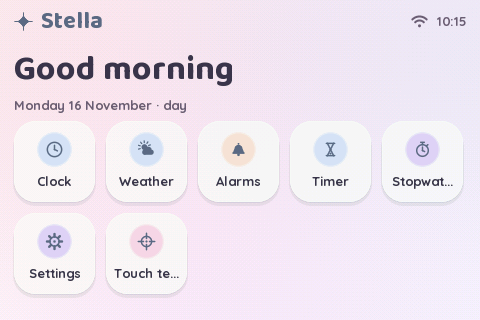
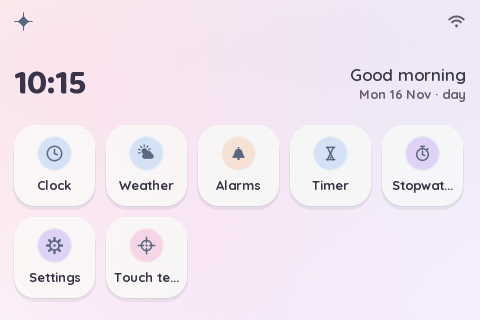
Home header with the time; StellaOS (0.8.2)
Owner requests:
- The "Stella" text is gone from the top of Home (its sparkle stays), and the
  small clock moves out of Home's status bar: the time is now large (the
  headline size) in Home's own header, with the greeting and a short date
  beside it ("Good night" / "Mon 16 Nov · night"). Other screens keep their
  title and small clock.
- The OS is called StellaOS in About, the update screen and the Home note.
- Even spacing: the same gap above the header, between the header and the
  apps, before the note and below, taken from the space that is left
  (at least gapS, at most 16 dp), instead of a fixed 4 dp under the header and
  whatever remained at the bottom.

LauncherApp exposes tileBounds() / pagerPrev() / pagerNext() so tests ask the
Home screen where things are instead of repeating its layout arithmetic.

179 tests. Firmware 1,481,291 B (75 %), 84,212 B RAM. Not run on the device.

Claude-Session: https://claude.ai/code/session_01WrCzyR31TQn5da2N4PH2yW

diff --git a/src/stella/apps/launcher.cpp b/src/stella/apps/launcher.cpp
@@ -28,10 +28,14 @@ int LauncherApp::HomeScreen::pageCount() const {
 
 void LauncherApp::HomeScreen::layout(const Rect &content, const Theme &t) {
   theme_ = t;
-  area_ = content.inset(t.m.margin, t.m.gapS);
+  area_ = content.inset(t.m.margin, 0);
   arrange();
 }
 
+// The header (the time, large, with the greeting and the date beside it), the
+// grid of apps, the page dots and, when Wi-Fi is not set up, a note: laid out
+// with the *same* space above, between and below, so nothing looks squeezed
+// against one edge.
 void LauncherApp::HomeScreen::arrange() {
   const Theme &t = theme_;
   columns_ = t.density == Density::Regular ? 5 : 4;
@@ -43,32 +47,54 @@ void LauncherApp::HomeScreen::arrange() {
   const int tileW = (area_.w - gap_ * (columns_ - 1)) / columns_;
   const int tileH = tileW;
   const bool paged = count > columns_ * rows_;
-  Rect parts[6];
-  column(area_,
-         {px(t.font.headline->lineHeight), px(t.font.caption->lineHeight), px(rows_ * tileH + (rows_ - 1) * gap_),
-          px(paged ? t.dp(10) : 0), flex(), px(rows_ == 1 ? t.m.row + t.dp(8) : 0)},
-         t.m.gapS, parts);
-  greeting_ = parts[0];
-  date_ = parts[1];
-  grid_ = parts[2];
-  dots_ = parts[3];
-  note_ = parts[5];
-  // With several pages, a pill of previous/next buttons sits beside the
-  // greeting; swiping still works too.
+  const int headerH = t.font.headline->lineHeight > t.font.body->lineHeight + t.font.caption->lineHeight
+                          ? t.font.headline->lineHeight
+                          : t.font.body->lineHeight + t.font.caption->lineHeight;
+  const int gridH = rows_ * tileH + (rows_ - 1) * gap_;
+  const int dotsH = paged ? t.dp(10) : 0;
+  const int noteH = rows_ == 1 ? t.m.row + t.dp(8) : 0;
+  const int used = headerH + gridH + (paged ? t.dp(4) + dotsH : 0) + noteH;
+  const int slots = noteH ? 4 : 3;  // gaps: above, between, [before the note], below
+  int space = (area_.h - used) / slots;
+  space = space < t.m.gapS ? t.m.gapS : space > t.dp(16) ? t.dp(16) : space;
+  int y = area_.y + space;
+  header_ = Rect(area_.x, y, area_.w, headerH);
+  y += headerH + space;
+  grid_ = Rect(area_.x, y, area_.w, gridH);
+  y += gridH;
   if (paged) {
-    const Rect header(area_.x, greeting_.y, area_.w, date_.bottom() - greeting_.y);
-    pager_ = trailing(header, t.dp(88));
+    dots_ = Rect(area_.x, y + t.dp(4), area_.w, dotsH);
+    y += t.dp(4) + dotsH;
+  } else {
+    dots_ = Rect();
+  }
+  note_ = noteH ? Rect(area_.x, y + space, area_.w, noteH) : Rect();
+  // With several pages, a pill of previous/next buttons sits at the right end
+  // of the header; swiping still works too.
+  Rect textArea = header_;
+  if (paged) {
+    pager_ = trailing(header_, t.dp(88));
     pager_ = center(pager_, pager_.w, t.m.control);
     Rect halves[2];
     row(pager_, {flex(), flex()}, 0, halves);
     prev_ = halves[0];
     next_ = halves[1];
-    const int textW = area_.w - pager_.w - t.m.gapM;
-    greeting_.w = textW;
-    date_.w = textW;
+    textArea.w = area_.w - pager_.w - t.m.gapM;
   } else {
     pager_ = prev_ = next_ = Rect();
   }
+  // The time (the widest it can be) on the left, the words right-aligned beside it.
+  const int timeW = Canvas::textWidth(*t.font.headline, "88:88 AM") < textArea.w / 2
+                        ? Canvas::textWidth(*t.font.headline, "88:88 AM")
+                        : textArea.w / 2;
+  Rect parts[2];
+  row(textArea, {px(timeW), flex()}, t.m.gapM, parts);
+  time_ = Rect(parts[0].x, header_.y, parts[0].w, headerH);
+  Rect lines[2];
+  column(center(parts[1], parts[1].w, t.font.body->lineHeight + t.font.caption->lineHeight),
+         {px(t.font.body->lineHeight), px(t.font.caption->lineHeight)}, 0, lines);
+  greeting_ = lines[0];
+  date_ = lines[1];
 }
 
 bool LauncherApp::HomeScreen::showPage(int page, AppContext &ctx) {
@@ -92,13 +118,19 @@ int LauncherApp::HomeScreen::tileAt(int x, int y) const {
 
 void LauncherApp::HomeScreen::refreshText(AppContext &ctx) {
   const LocalTime now = ctx.localTime();
-  char greeting[sizeof(greetingText_)], date[sizeof(dateText_)];
+  char clock[sizeof(timeText_)], greeting[sizeof(greetingText_)], date[sizeof(dateText_)];
+  if (now.valid) ctx.formatTime(now, clock, sizeof(clock));
+  else snprintf(clock, sizeof(clock), "--:--");
   snprintf(greeting, sizeof(greeting), "%s", greetingFor(now));
   if (now.valid) {
-    snprintf(date, sizeof(date), "%s %d %s \xc2\xb7 %s", weekdayName(now.weekday), now.day, monthName(now.month),
+    snprintf(date, sizeof(date), "%.3s %d %.3s \xc2\xb7 %s", weekdayName(now.weekday), now.day, monthName(now.month),
              phaseName(ctx.theme().phase));
   } else {
     snprintf(date, sizeof(date), "Set the time in Settings");
+  }
+  if (strcmp(clock, timeText_) != 0) {
+    memcpy(timeText_, clock, sizeof(clock));
+    ctx.invalidate(time_);
   }
   if (strcmp(greeting, greetingText_) != 0) {
     memcpy(greetingText_, greeting, sizeof(greeting));
@@ -126,7 +158,7 @@ void LauncherApp::HomeScreen::refreshText(AppContext &ctx) {
     snprintf(text, sizeof(text), "%d%% lit \xc2\xb7 %s sky", (int)(moon.illumination * 100 + 0.5f),
              phaseName(ctx.theme().phase));
   } else {
-    snprintf(title, sizeof(title), "Stella");
+    snprintf(title, sizeof(title), "StellaOS");
     snprintf(text, sizeof(text), "Waiting for the time");
   }
   if (strcmp(title, noteTitle_) || strcmp(text, noteText_)) {
@@ -155,8 +187,9 @@ uint32_t LauncherApp::HomeScreen::onTick(AppContext &ctx) {
 
 void LauncherApp::HomeScreen::draw(Canvas &c, const Theme &t) {
   const Palette &p = t.color;
-  c.drawTextIn(*t.font.headline, greetingText_, greeting_, p.text);
-  c.drawTextIn(*t.font.caption, dateText_, date_, p.textMuted);
+  c.drawTextIn(*t.font.headline, timeText_, time_, p.text);
+  c.drawTextIn(*t.font.body, greetingText_, greeting_, p.text, Align::Right);
+  c.drawTextIn(*t.font.caption, dateText_, date_, p.textMuted, Align::Right);
 
   for (int slot = 0; slot < perPage(); ++slot) {
     const int index = page_ * perPage() + slot;

diff --git a/src/stella/runtime/runtime.cpp b/src/stella/runtime/runtime.cpp
@@ -773,17 +773,18 @@ void Runtime::drawStatusBar(Canvas &c) {
   const Palette &p = t.color;
   const Rect bar = statusBarRect().inset(t.m.margin, 0);
 
-  char clock[12];
-  formatTime(localTime(), clock, sizeof(clock));
+  // Home shows the time large in its own header, so its status bar has none.
+  const bool back = canGoBack();
+  char clock[12] = "";
+  if (back) formatTime(localTime(), clock, sizeof(clock));
   const NetworkStatus net = network_.get();
   const int iconSize = t.dp(14);
-  const int rightW = Canvas::textWidth(*t.font.caption, clock) + (net.present ? iconSize + t.dp(6) : 0);
+  const int rightW = (clock[0] ? Canvas::textWidth(*t.font.caption, clock) + t.dp(6) : 0) + (net.present ? iconSize : 0);
   Rect parts[2];
   layout::row(bar, {layout::flex(), layout::px(rightW)}, t.m.gapM, parts);
 
   // Left: back affordance + title, or the Stella brand on the home screen.
   Rect left = parts[0];
-  const bool back = canGoBack();
   if (back) {
     const Rect box = layout::leading(left, iconSize);
     if (backPressed_) c.fillCircle(box.centerX(), box.centerY(), iconSize / 2 + t.dp(4), p.accent, 46);
@@ -794,8 +795,10 @@ void Runtime::drawStatusBar(Canvas &c) {
   left = Rect(left.x + iconSize + t.dp(6), left.y, left.w - iconSize - t.dp(6), left.h);
   const Screen *s = topScreen();
   const App *app = foreground();
-  const char *title = back ? (s && s->title() ? s->title() : app ? app->info().name : "") : "Stella";
-  c.drawTextIn(*t.font.title, title, left, back ? p.text : p.accent);
+  if (back) {
+    const char *title = s && s->title() ? s->title() : app ? app->info().name : "";
+    c.drawTextIn(*t.font.title, title, left, p.text);
+  }
 
   // Right: network indicator + clock.
   Rect right = parts[1];
@@ -805,10 +808,10 @@ void Runtime::drawStatusBar(Canvas &c) {
                             : net.state == WifiState::Connecting ? p.accent
                             : net.state == WifiState::Disconnected ? p.danger
                                                                    : blend(p.glass, p.textMuted, 120);
-    icons::wifi(c, layout::leading(right, iconSize), wifiColor);
-    right = Rect(right.x + iconSize + t.dp(6), right.y, right.w - iconSize - t.dp(6), right.h);
+    icons::wifi(c, layout::trailing(Rect(right.x, right.y, right.w - (clock[0] ? Canvas::textWidth(*t.font.caption, clock) + t.dp(6) : 0), right.h), iconSize), wifiColor);
+    right = Rect(right.right() - (clock[0] ? Canvas::textWidth(*t.font.caption, clock) : 0), right.y, clock[0] ? Canvas::textWidth(*t.font.caption, clock) : 0, right.h);
   }
-  c.drawTextIn(*t.font.caption, clock, right, p.textMuted, Align::Right);
+  if (clock[0]) c.drawTextIn(*t.font.caption, clock, right, p.textMuted, Align::Right);
 }
 
 void Runtime::drawToast(Canvas &c) {

diff --git a/tests/test_runtime.cpp b/tests/test_runtime.cpp
@@ -12,14 +12,10 @@ namespace {
 
 const char *topApp(SimSession &s) { return s.os.foreground() ? s.os.foreground()->info().id : ""; }
 
-// Centre of launcher tile `i` (first page), derived from the same theme tokens.
+// Centre of launcher tile `i` (first page), asked of the Home screen itself.
 Point launcherTile(SimSession &s, int index) {
-  const Theme &t = s.os.theme();
-  const Rect c = s.os.contentRect().inset(t.m.margin, t.m.gapS);
-  const int columns = t.density == Density::Regular ? 5 : 4;
-  const int tileW = (c.w - t.m.gapM * (columns - 1)) / columns;  // square tiles
-  const int top = c.y + t.font.headline->lineHeight + t.font.caption->lineHeight + 2 * t.m.gapS;
-  return Point{(int16_t)(c.x + index * (tileW + t.m.gapM) + tileW / 2), (int16_t)(top + tileW / 2)};
+  const Rect r = s.launcher.tileBounds(index);
+  return Point{(int16_t)r.centerX(), (int16_t)r.centerY()};
 }
 
 }  // namespace
@@ -146,22 +142,17 @@ TEST(tap_seen_once_across_a_slow_frame_still_launches) {
 // paging needed a swipe, which is hard on a resistive panel.
 TEST(home_pages_with_buttons) {
   SimSession s(320, 240, kEveningEpoch, Appearance::Auto, false, /*online=*/false);
-  const Theme &t = s.os.theme();
-  const Rect area = s.os.contentRect().inset(t.m.margin, t.m.gapS);
-  const int headerTop = area.y, headerBottom = area.y + t.font.headline->lineHeight + t.m.gapS + t.font.caption->lineHeight;
-  const int y = (headerTop + headerBottom) / 2;
-  const int nextX = area.right() - t.dp(88) / 4, prevX = area.right() - t.dp(88) * 3 / 4;
-  s.tap(nextX, y);
+  const Rect next = s.launcher.pagerNext(), prev = s.launcher.pagerPrev();
+  CHECK(!next.empty() && !prev.empty());
+  s.tap(next.centerX(), next.centerY());
   // Page 2 starts with the fifth app; its tile is now first.
-  const int columns = 4;
-  const int tileW = (area.w - t.m.gapM * (columns - 1)) / columns;
-  const int tileY = headerBottom + t.m.gapS + tileW / 2;
-  s.tap(area.x + tileW / 2, tileY);
+  const Rect first = s.launcher.tileBounds(0);
+  s.tap(first.centerX(), first.centerY());
   CHECK(strcmp(topApp(s), "stopwatch") == 0);  // the fifth listed app
   s.os.goHome();
   s.run(100);
-  s.tap(prevX, y);
-  s.tap(area.x + tileW / 2, tileY);
+  s.tap(prev.centerX(), prev.centerY());
+  s.tap(first.centerX(), first.centerY());
   CHECK(strcmp(topApp(s), "clock") == 0);
 }
 

diff --git a/src/stella/apps/launcher.h b/src/stella/apps/launcher.h
@@ -11,6 +11,10 @@ class LauncherApp : public App {
   const AppInfo &info() const override;
   Screen &root() override { return home_; }
   void onTopic(uint16_t topicId, AppContext &ctx) override;
+  // Where things are on the Home screen (for tests and screenshots).
+  Rect tileBounds(int slot) const { return home_.tileRect(slot); }
+  Rect pagerPrev() const { return home_.prevRect(); }
+  Rect pagerNext() const { return home_.nextRect(); }
 
  private:
   class HomeScreen : public Screen {
@@ -21,6 +25,9 @@ class LauncherApp : public App {
     void onShow(AppContext &ctx) override;
     uint32_t onTick(AppContext &ctx) override;
     void refreshText(AppContext &ctx);
+    Rect tileRect(int slot) const { return tile(slot); }
+    Rect prevRect() const { return prev_; }
+    Rect nextRect() const { return next_; }
 
    private:
     int perPage() const { return columns_ * rows_; }
@@ -32,10 +39,10 @@ class LauncherApp : public App {
 
     FixedVector<const AppInfo *, 16> apps_;
     Theme theme_{};
-    Rect area_, greeting_, date_, grid_, dots_, note_;
+    Rect area_, header_, time_, greeting_, date_, grid_, dots_, note_;
     Rect pager_, prev_, next_;  // page buttons (resistive panels make swiping hard)
     int columns_ = 3, rows_ = 2, gap_ = 8, page_ = 0, pressed_ = -1;
-    char greetingText_[32] = {0}, dateText_[48] = {0}, noteTitle_[32] = {0}, noteText_[48] = {0};
+    char timeText_[16] = {0}, greetingText_[32] = {0}, dateText_[48] = {0}, noteTitle_[32] = {0}, noteText_[48] = {0};
     bool setupNote_ = false, notePressed_ = false;  // note invites Wi-Fi setup
     bool prevPressed_ = false, nextPressed_ = false;
   };

diff --git a/src/stella/apps/settings_app.cpp b/src/stella/apps/settings_app.cpp
@@ -1337,7 +1337,7 @@ void SettingsApp::AboutScreen::refresh(AppContext &ctx) {
   char next[kRows][40];
   const uint32_t up = s.uptimeMs / 1000;
   snprintf(next[0], 40, "%s", s.board);
-  snprintf(next[1], 40, "Stella %s", s.version);
+  snprintf(next[1], 40, "StellaOS %s", s.version);
   snprintf(next[2], 40, "%d x %d %s", s.width, s.height, s.density == Density::Regular ? "regular" : "compact");
   snprintf(next[3], 40, "%lud %02luh %02lum", (unsigned long)(up / 86400), (unsigned long)(up / 3600 % 24),
            (unsigned long)(up / 60 % 60));
@@ -1422,7 +1422,7 @@ void SettingsApp::UpdateScreen::refresh(AppContext &ctx) {
   st_ = ctx.update().status();
   auto_.on = ctx.settings().autoUpdate;
   const NetworkStatus net = ctx.network().status();
-  snprintf(installed_, sizeof(installed_), "Stella %s", ctx.status().version);
+  snprintf(installed_, sizeof(installed_), "StellaOS %s", ctx.status().version);
   if (st_.version[0] && (st_.state == UpdateState::Available || st_.state == UpdateState::Downloading ||
                          st_.state == UpdateState::Ready || st_.state == UpdateState::UpToDate))
     snprintf(offered_, sizeof(offered_), "%s \xc2\xb7 %lu.%lu MB", st_.version, (unsigned long)(st_.size / 1048576),

diff --git a/src/stella/runtime/runtime.h b/src/stella/runtime/runtime.h
@@ -27,7 +27,7 @@
 #include "event_queue.h"
 
 #ifndef STELLA_VERSION
-#define STELLA_VERSION "0.8.1"
+#define STELLA_VERSION "0.8.2"
 #endif
 
 namespace stella {

diff --git a/README.md b/README.md
@@ -16,7 +16,7 @@ management and versioned settings.
 
 | | |
 | --- | --- |
-| Version | 0.8.1 (brighter alert LED), 0.8.0: status LED, Find my LED, ambient-light dimming with a calibration (0.7.x added update diagnostics and gentler flash writes; the screen-transition experiment was removed again) |
+| Version | 0.8.2 (Home header with the time, StellaOS name), 0.8.1 (brighter alert LED), 0.8.0: status LED, Find my LED, ambient-light dimming with a calibration (0.7.x added update diagnostics and gentler flash writes; the screen-transition experiment was removed again) |
 | First board | ESP32-2432S028R "Cheap Yellow Display" (2.8" 320x240, XPT2046) |
 | Host tests | 179 tests under ASan + UBSan, incl. touch-driven Wi-Fi onboarding, alarms, the stopwatch and the update flow; screenshots at 320x240 and 480x320 |
 | Firmware build | Compiles with Arduino-ESP32 3.3.12: 1.48 MB flash (75% of a 1.9 MB update slot), 84 KB static RAM (25%) |

diff --git a/docs/ARCHITECTURE.md b/docs/ARCHITECTURE.md
@@ -383,8 +383,8 @@ Apps get their own namespace (`AppContext::saveAppRecord`).
 
 | Item | Size |
 | --- | --- |
-| Program (flash) | 1,480,867 B of a 1,966,080 B app slot (74%); mbedTLS/HTTPS is most of it |
-| Static RAM (globals) | 84,180 B; 243,500 B left for stacks and heap (the phone-setup server's four request slots are ~3 KB of it) |
+| Program (flash) | 1,481,291 B of a 1,966,080 B app slot (74%); mbedTLS/HTTPS is most of it |
+| Static RAM (globals) | 84,212 B; 243,468 B left for stacks and heap (the phone-setup server's four request slots are ~3 KB of it) |
 | With DMA (`STELLA_CYD_DMA 1`) | not re-measured since 0.6.0 (then 1,495,365 B flash, 93,412 B static RAM) |
 | Single-app layout (`cyd-huge`) | the same firmware in a 3 MB slot (46%), no updates |
 | Render chunk buffer | 12,800 B (320 x 20 px); a second one with DMA |
